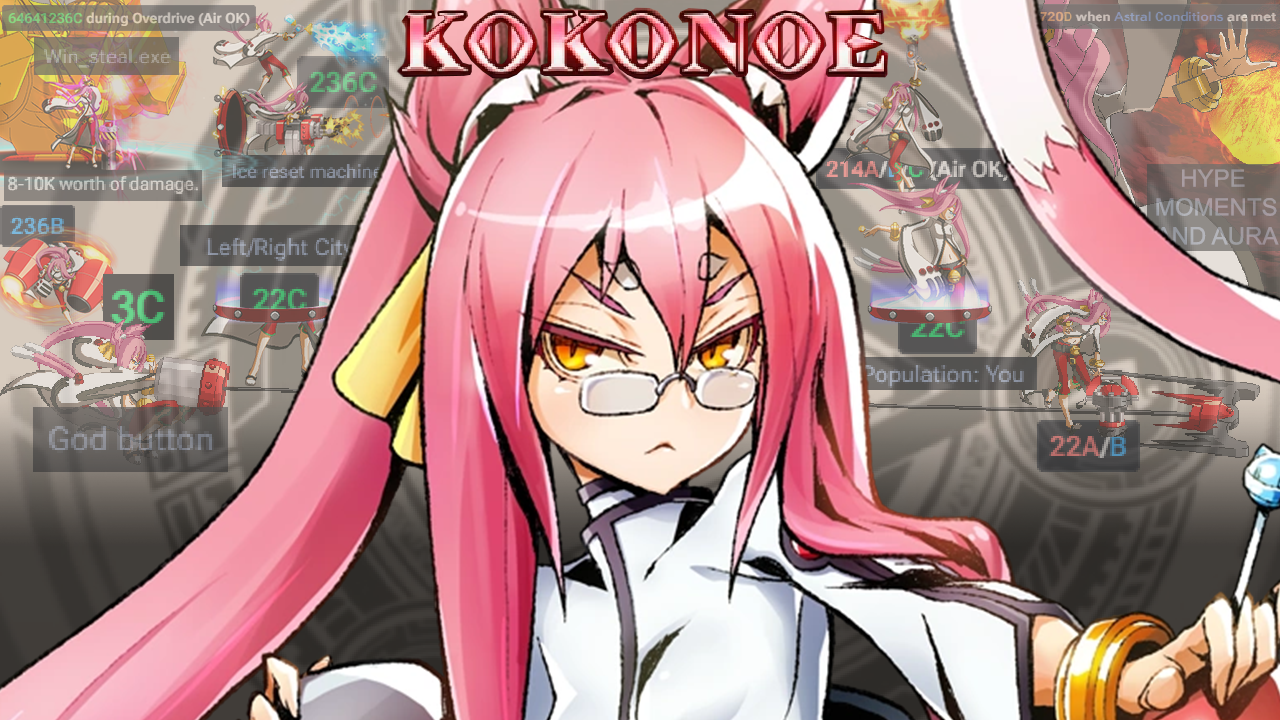
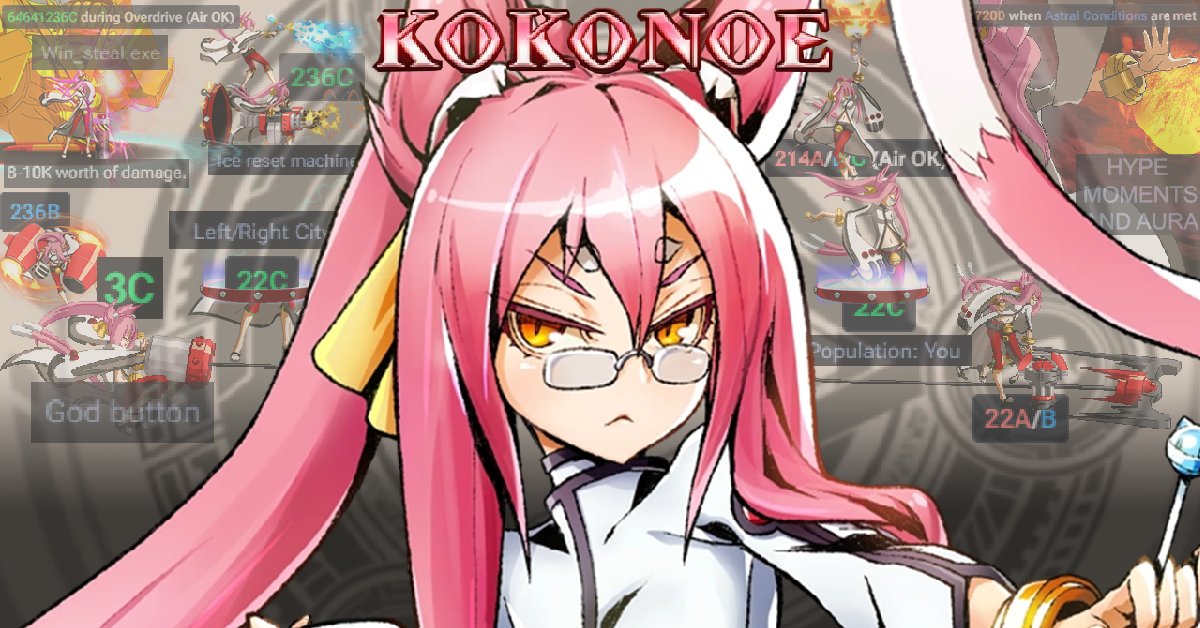
Fixed preview metadata

diff --git a/index.html b/index.html
@@ -1469,7 +1469,7 @@
 	<meta property="og:url" content="https://haikamdesu.github.io/">
 
 	<!-- LOCAL preview image -->
-	<meta property="og:image" content="./images/preview.png">
+	<meta property="og:image" content="https://haikamdesu.github.io/BBCF2-Kokonoe-Bible-Project/images/preview.png">
 	<meta property="og:image:width" content="1280">
 	<meta property="og:image:height" content="720">
 
@@ -1479,7 +1479,7 @@
 	<meta name="twitter:card" content="summary_large_image">
 	<meta name="twitter:title" content="BBCF2 - Kokonoe Bible">
 	<meta name="twitter:description" content="The complete Kokonoe Bible — combos, routing, tech, theory and more.">
-	<meta name="twitter:image" content="./images/preview.png">
+	<meta name="twitter:image" content="https://haikamdesu.github.io/BBCF2-Kokonoe-Bible-Project/images/preview.png">
 
 	<!-- ========================================================= -->
 	<!-- Optional but Useful                                       -->
